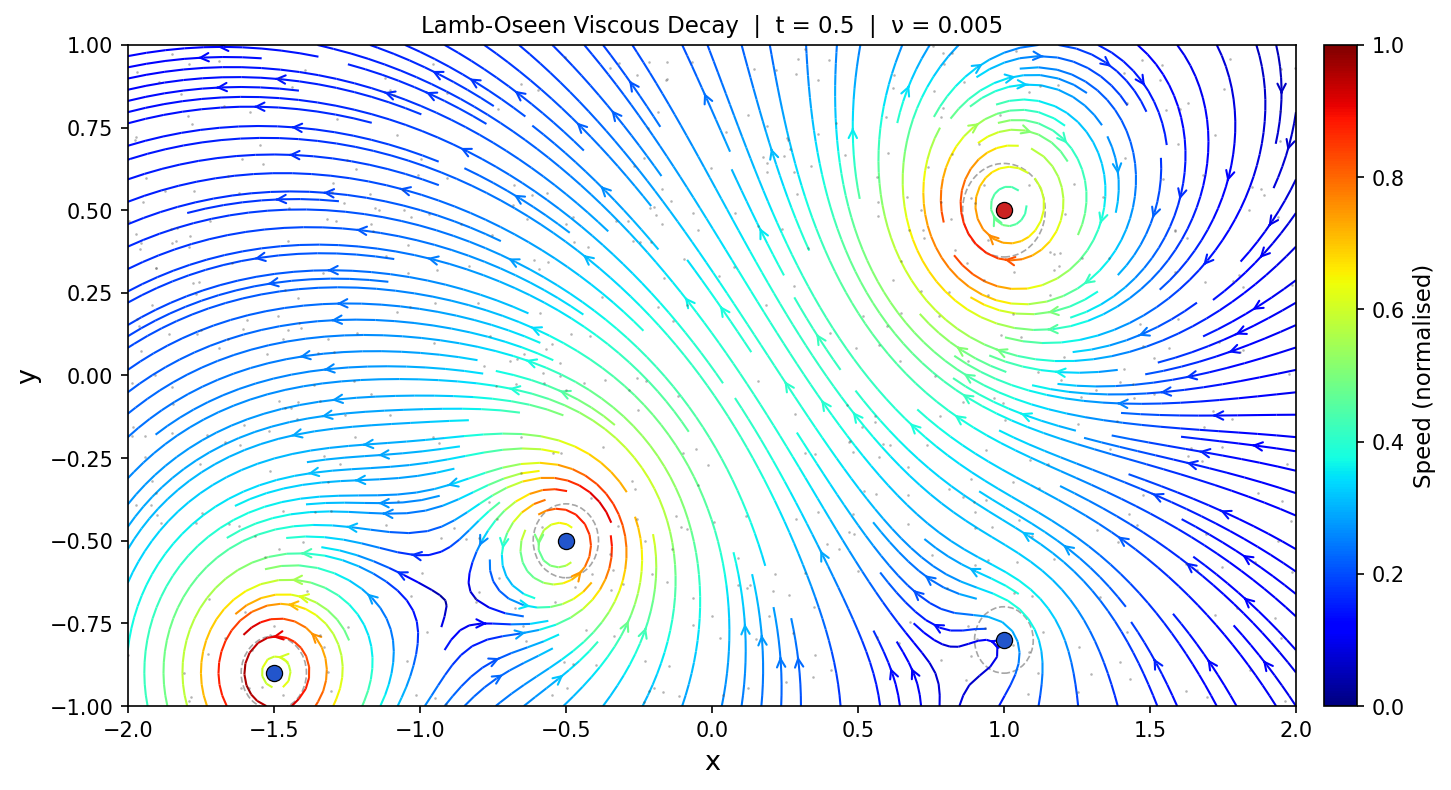
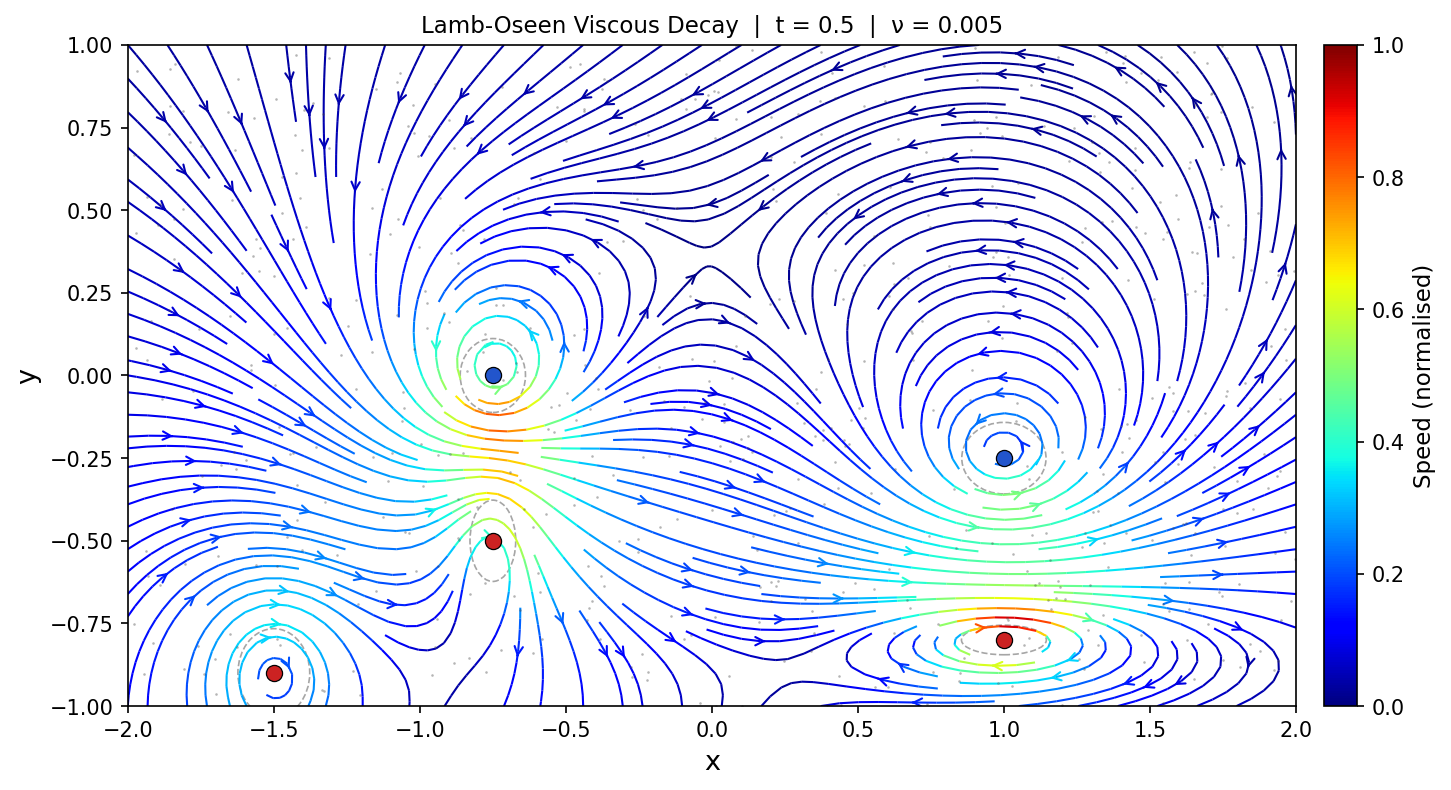
s

Changed region(s): [[0.093, 0.0608, 0.8994, 0.9114]]

diff --git a/lamb_oseen.py b/lamb_oseen.py
@@ -23,10 +23,10 @@ nu = 0.005
 # aspect_x / aspect_y control the oval shape (1.0 = circular)
 vortices = [
     {'strength': 3.0, 'x': -1.5, 'y': -0.9, 'r0': 0.05, 'aspect_x': 1.1, 'aspect_y': 1.2},
-    {'strength': 3.0, 'x': -0.5, 'y': -0.5, 'r0': 0.05, 'aspect_x': 0.7, 'aspect_y': 1.1},
+    {'strength': 3.0, 'x': -0.75, 'y': -0.5, 'r0': 0.05, 'aspect_x': 0.7, 'aspect_y': 1.1},
     {'strength': -3.0, 'x':  1.0, 'y': -0.25, 'r0': 0.15,  'aspect_x': 0.8, 'aspect_y': 0.6},
     {'strength': 3.0, 'x':  1.0, 'y': -0.8, 'r0': 0.05, 'aspect_x': 1.3, 'aspect_y': 0.4},
-    {'strength': -3.0, 'x': -0.5, 'y': 0.0, 'r0': 0.05, 'aspect_x': 1.3, 'aspect_y': 0.7}
+    {'strength': -5.0, 'x': -0.75, 'y': 0.0, 'r0': 0.05, 'aspect_x': 1.0, 'aspect_y': 1.0}
 ]
 
 dt = 0.1
